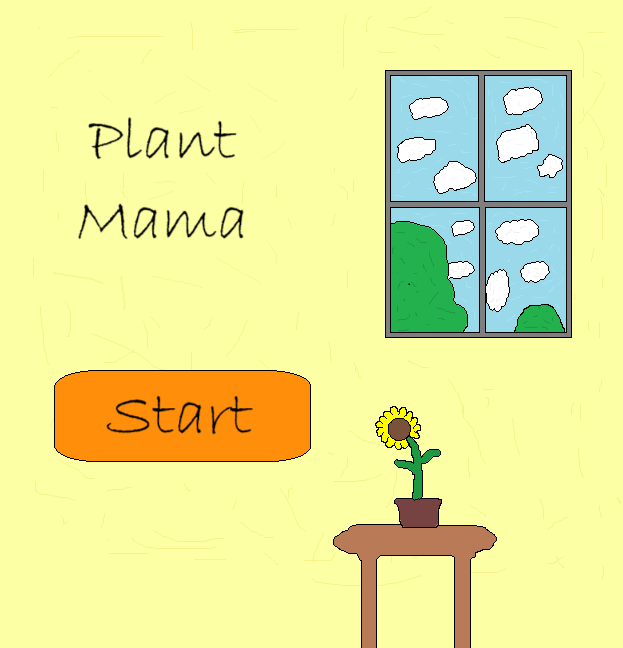
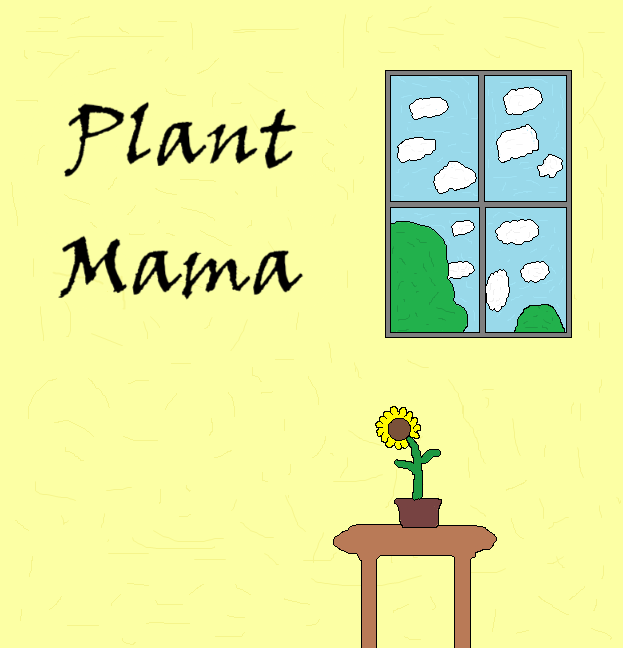
fix title screen and rm old image

Changed region(s): [[0.061, 0.5556, 0.5185, 0.7407], [0.0915, 0.3086, 0.488, 0.463], [0.0915, 0.1543, 0.488, 0.2778]]

diff --git a/src/scenes/TitleScene.js b/src/scenes/TitleScene.js
@@ -1,6 +1,6 @@
 import Phaser from 'phaser'
 import startImg from '../assets/images/start-btn.png'
-import titleImg from '../assets/images/title-bg2.png'
+import titleImg from '../assets/images/title-bg.png'
 
 
 export default class TitleScene extends Phaser.Scene {
@@ -9,16 +9,12 @@ export default class TitleScene extends Phaser.Scene {
     }
 
     preload() {
-        // load start button
+        // load iamges
         this.load.image('background', titleImg)
         this.load.image('startButton', startImg)
     }
 
     create() {
-        this.game.scale.pageAlignHorizontally = true;
-        this.game.scale.pageAlignVertically = true;
-        this.game.scale.refresh();
-
         // add background image, centered
         this.add.image(this.scale.width / 2, this.scale.height / 2, 'background')
             .setOrigin(0.5)
